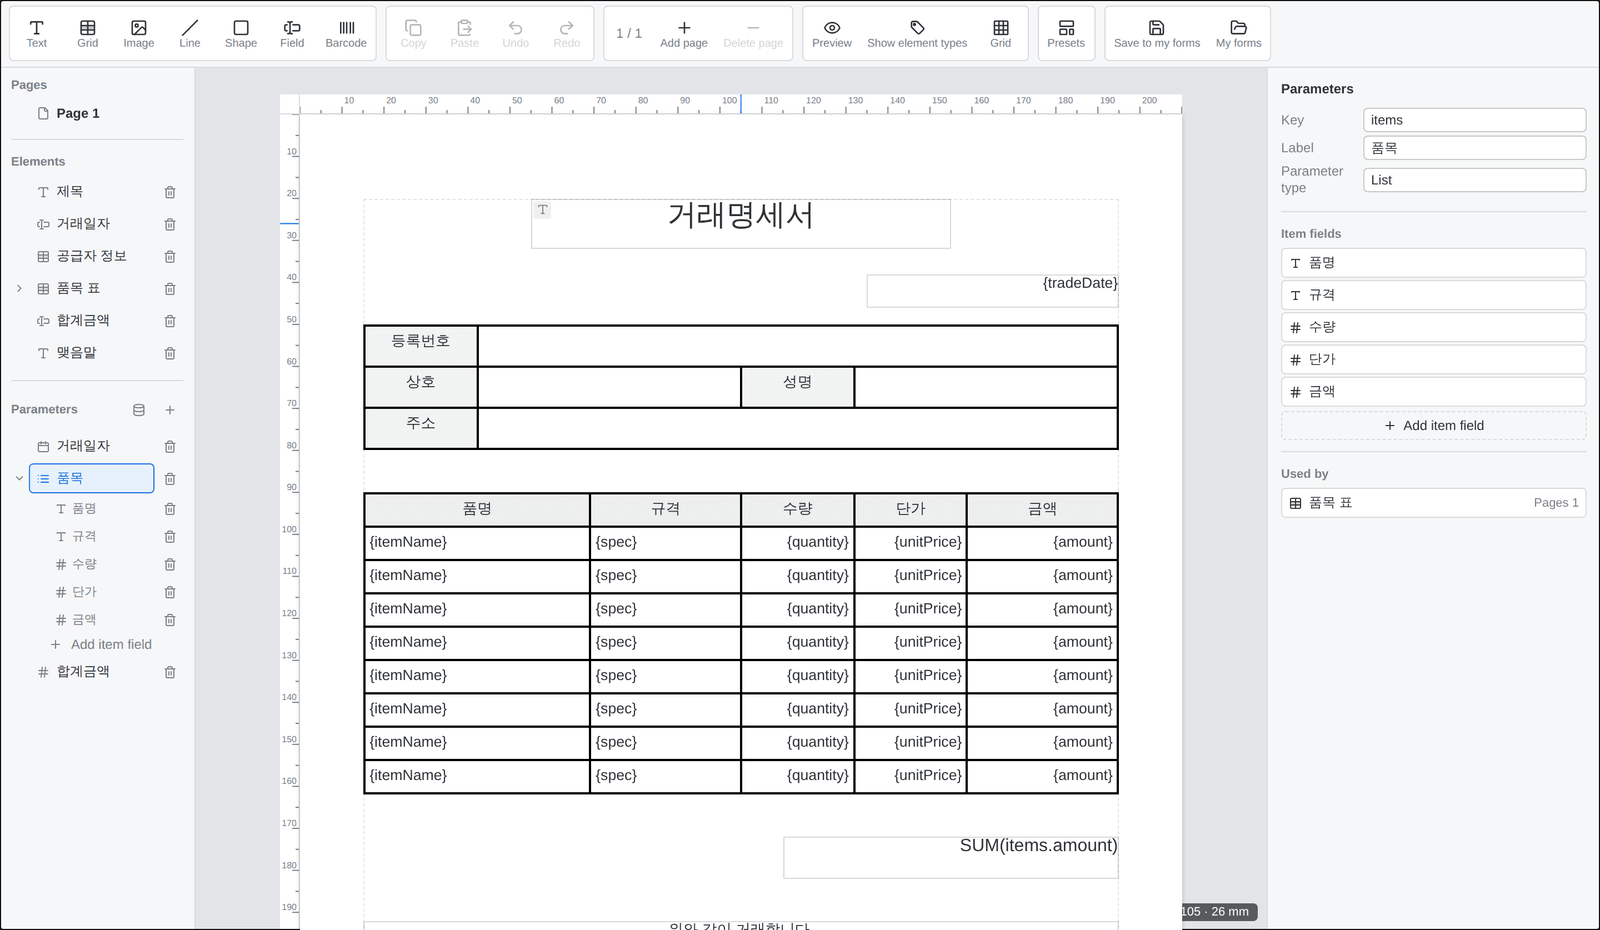
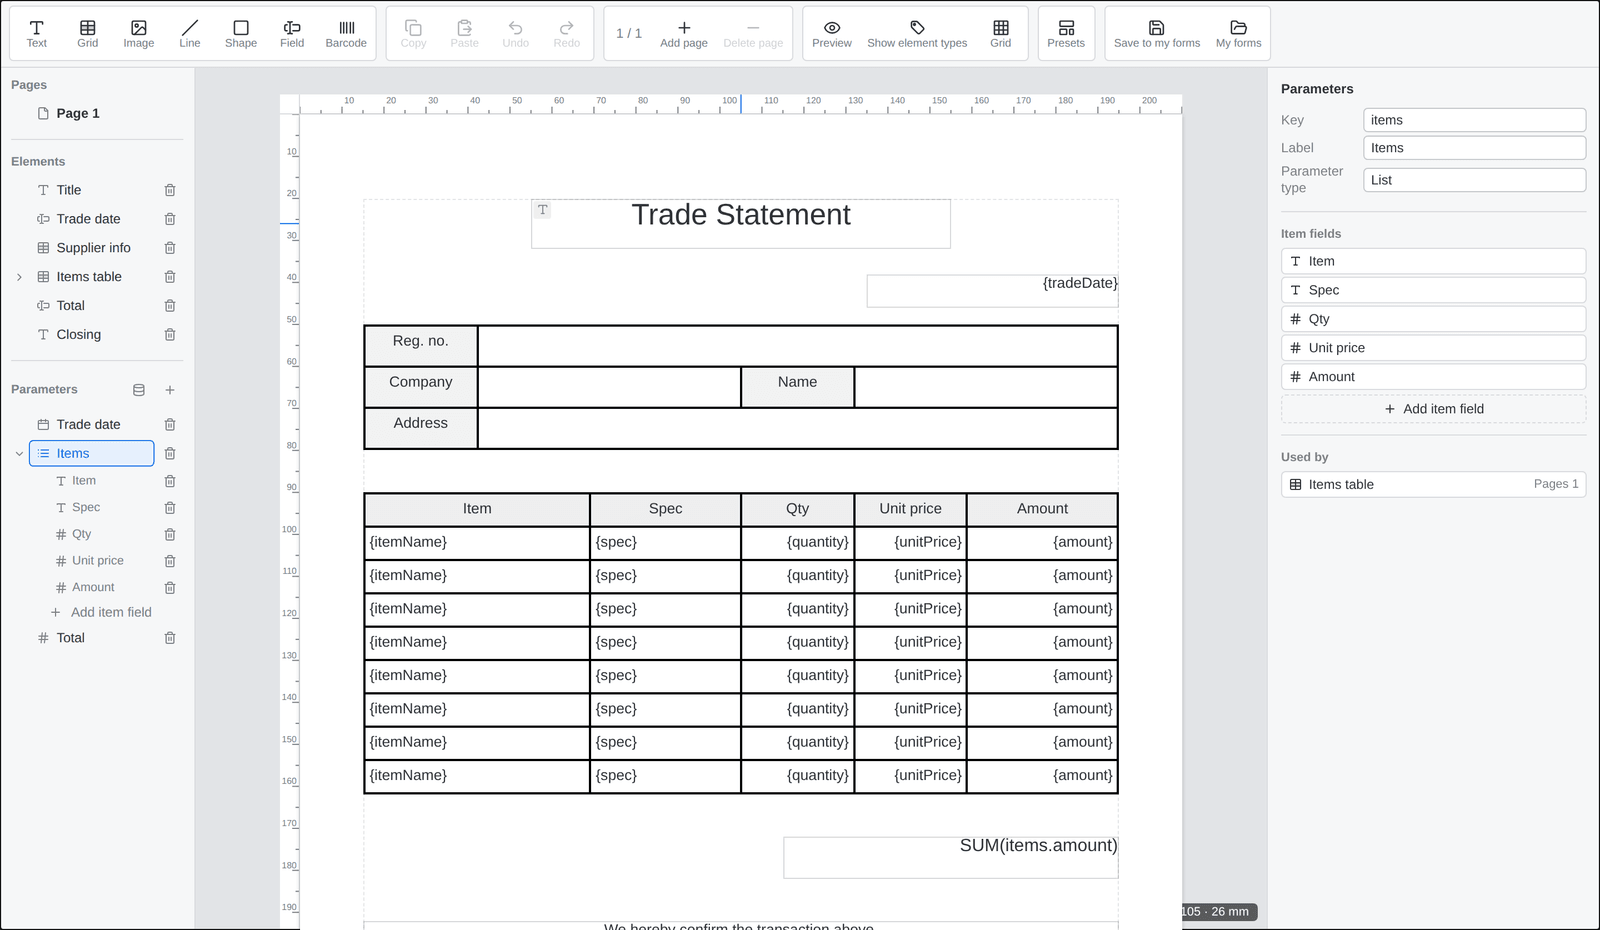
docs(repo): 디자이너 가이드 en·ja 화면의 문서 내용도 해당 언어로 통일
en·ja 가이드 화면에서 UI는 각 언어였지만 미리보기 속 문서 내용(제목·표 라벨·항목명)이
한국어로 남아 있었다. 캡처용 샘플 양식을 해당 언어로 옮겨 문서 내용까지 맞췄다.

- en: 거래명세서→Trade Statement, 등록번호→Reg. no. 등 문서 라벨·항목·맺음말 번역
- ja: 거래명세서→取引明細書, 등록번호→登録番号 등 번역
- 물리명(tradeDate·items·itemName…)은 영문 그대로 — 값 키는 언어와 무관
- 동봉 프리셋(한국어)은 그대로 두고 가이드 캡처에만 번역본을 실었다
- en·ja 디자이너 가이드 머리말에서 "샘플 내용은 한국어"라던 설명 제거

검증: 문서·이미지 변경만 — 코드 변경 없음.

Claude-Session: https://claude.ai/code/session_01AWmhSddva7mhUUWiW717Lv

diff --git a/docs/guide/designer.ja.md b/docs/guide/designer.ja.md
@@ -6,8 +6,7 @@
 方法（インストール・プロパティ・イベント）は **[利用ガイド](README.ja.md)** を、`.slip` ファイル
 フォーマットは **[SPEC](../SPEC.md)** を参照してください。
 
-以下の画面は同梱デモ（`pnpm demo`）で同梱プリセット「取引明細書」を開いたものです。サンプル文書の
-内容（タイトル・ラベル）は韓国語です — このガイドはデータではなくツールの使い方を示します。
+以下の画面は同梱デモ（`pnpm demo`）で「取引明細書」プリセットを開いたものです。
 
 ## 目次
 

diff --git a/docs/guide/designer.en.md b/docs/guide/designer.en.md
@@ -6,8 +6,7 @@ This guide walks through building a form (template) with `<slip-designer>`, with
 For wiring the component into your app (install, props, events) see the **[Usage Guide](README.en.md)**;
 for the `.slip` file format see the **[SPEC](../SPEC.md)**.
 
-The screens below show the bundled demo (`pnpm demo`) with the bundled "Trade Statement" preset open.
-The sample document content (titles, labels) is Korean — the guide illustrates the tool, not the data.
+The screens below show the bundled demo (`pnpm demo`) with the "Trade Statement" preset open.
 
 ## Contents
 
